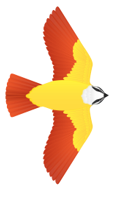
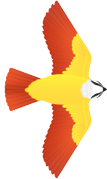
mountain level

diff --git a/Level2.java b/Level2.java
@@ -47,9 +47,9 @@ public class Level2 {
 		background2.add(new Log("file:src/p4_group_8_repo/cloudmove.png", 300, 0, 255, -2));
 		background2.add(new Log("file:src/p4_group_8_repo/cloudmove.png", 300, 400, 255, -2));
 		//background.add(new Log("file:src/p4_group_8_repo/logs.png", 300, 800, 276, -2));
-		background2.add(new Log("file:src/p4_group_8_repo/plane-right.png", 110, 50, 325, 0.75));
-		background2.add(new Log("file:src/p4_group_8_repo/plane-right.png", 110, 270, 325, 0.75));
-		background2.add(new Log("file:src/p4_group_8_repo/plane-right.png", 110, 465, 325, 0.75));
+		background2.add(new Log("file:src/p4_group_8_repo/superman-right.png", 125, 50, 325, 0.75));
+		background2.add(new Log("file:src/p4_group_8_repo/superman-right.png", 125, 270, 325, 0.75));
+		background2.add(new Log("file:src/p4_group_8_repo/superman-right.png", 125, 465, 325, 0.75));
 		//background.add(new Log("file:src/p4_group_8_repo/log3.png", 150, 0, 166, 0.75));
 		/*
 		background2.add(new Log("file:src/p4_group_8_repo/Birds2-right.PNG", 150, 50, 329, 1.40));
@@ -146,13 +146,13 @@ public class Level2 {
 	        	//Create and write "Score History" to text file
             	try {
             	    if (animal.getStop()) {
-            		File myObj = new File("D:\\Eclipse\\TryFrog1\\src\\p4_group_8_repo\\highscore.txt");
+            		File myObj = new File("MountainHighscore.txt");
             	      if (myObj.createNewFile()) {
             	        System.out.println("File created: " + myObj.getName());
             	      } else {
             	        System.out.println("File already exists.");
             	     }
-            	    FileWriter myWriter = new FileWriter("D:\\Eclipse\\TryFrog1\\src\\p4_group_8_repo\\highscore.txt", true);
+            	    FileWriter myWriter = new FileWriter("MountainHighscore.txt", true);
             	    myWriter.write("Score History: ");
           	        /*myWriter.write("\n");
             	    myWriter.write(""+ animal.getPoints());
@@ -166,7 +166,7 @@ public class Level2 {
             	//Write high score to text file
             	try {
             		if (animal.getStop()) {
-            		FileWriter myWriter1 = new FileWriter("D:\\Eclipse\\TryFrog1\\src\\p4_group_8_repo\\highscore.txt", true);
+            		FileWriter myWriter1 = new FileWriter("MountainHighscore.txt", true);
             		myWriter1.write("\n");
             	    myWriter1.write(""+ animal.getPoints());
           	        myWriter1.close();
@@ -198,7 +198,7 @@ public class Level2 {
 	            {
 	                //Creating BufferedReader object to read the input file
 	                 
-	                reader = new BufferedReader(new FileReader("D:\\Eclipse\\TryFrog1\\src\\p4_group_8_repo\\highscore.txt"));
+	                reader = new BufferedReader(new FileReader("MountainHighscore.txt"));
 	                 
 	                //Reading all the lines of input file one by one and adding them into ArrayList
 	                 
@@ -215,7 +215,7 @@ public class Level2 {
 	                 
 	                //Creating BufferedWriter object to write into output file
 	                 
-	                writer = new BufferedWriter(new FileWriter("D:\\Eclipse\\TryFrog1\\src\\p4_group_8_repo\\highscoresorted.txt"));
+	                writer = new BufferedWriter(new FileWriter("MountainHighscoresorted.txt"));
 	                 
 	                //Writing sorted lines into output file
 	                writer.write("Highgest Score First");
@@ -260,7 +260,7 @@ public class Level2 {
 	        		stop();
 	        		background.stop();
 	        		*/
-	        		reader1 = new BufferedReader(new FileReader("D:\\Eclipse\\TryFrog1\\src\\p4_group_8_repo\\highscoresorted.txt"));
+	        		reader1 = new BufferedReader(new FileReader("MountainHighscoresorted.txt"));
 	                
 	                //Reading all the lines of input file one by one and adding them into ArrayList
 	                 
@@ -272,7 +272,7 @@ public class Level2 {
 	                }
 	        	Alert alert = new Alert(AlertType.INFORMATION);
 	    		alert.setTitle("You Have Won The Game!");
-	    		alert.setHeaderText("Your High Score: "+animal.getPoints()+"!");
+	    		alert.setHeaderText("Your Score: "+animal.getPoints()+"!");
 	    		alert.setContentText("Highest Possible Score: 800\n"+"Previous High Scores:\n" + lines);
 	    		alert.show();
 	        	}

diff --git a/Level1.java b/Level1.java
@@ -124,28 +124,18 @@ public class Level1{
 	        		stop();
 	        		background.stop();
 	        		}
-	        		/*
-	        		Alert alert = new Alert(AlertType.INFORMATION);
-	        		alert.setTitle("You Have Won The Game!");
-	        		alert.setHeaderText("Your High Score: "+animal.getPoints()+"!");
-	        		alert.setContentText("Highest Possible Score: 800\n");
-	        		alert.show();
-	        	}
-	        	*/
+	       
 	        	//Create and write "Score History" to text file
             	try {
             	    if (animal.getStop()) {
-            		File myObj = new File("D:\\Eclipse\\TryFrog1\\src\\p4_group_8_repo\\highscore.txt");
+            		File myObj = new File("RiverHighscore.txt");
             	      if (myObj.createNewFile()) {
             	        System.out.println("File created: " + myObj.getName());
             	      } else {
             	        System.out.println("File already exists.");
             	     }
-            	    FileWriter myWriter = new FileWriter("D:\\Eclipse\\TryFrog1\\src\\p4_group_8_repo\\highscore.txt", true);
+            	    FileWriter myWriter = new FileWriter("RiverHighscore.txt", true);
             	    myWriter.write("Score History: ");
-          	        /*myWriter.write("\n");
-            	    myWriter.write(""+ animal.getPoints());
-          	        myWriter.close();*/
             	    }
             	   } catch (IOException e) {
             	      System.out.println("An error occurred.");
@@ -155,7 +145,7 @@ public class Level1{
             	//Write high score to text file
             	try {
             		if (animal.getStop()) {
-            		FileWriter myWriter1 = new FileWriter("D:\\Eclipse\\TryFrog1\\src\\p4_group_8_repo\\highscore.txt", true);
+            		FileWriter myWriter1 = new FileWriter("RiverHighscore.txt", true);
             		myWriter1.write("\n");
             	    myWriter1.write(""+ animal.getPoints());
           	        myWriter1.close();
@@ -187,7 +177,7 @@ public class Level1{
 	            {
 	                //Creating BufferedReader object to read the input file
 	                 
-	                reader = new BufferedReader(new FileReader("D:\\Eclipse\\TryFrog1\\src\\p4_group_8_repo\\highscore.txt"));
+	                reader = new BufferedReader(new FileReader("RiverHighscore.txt"));
 	                 
 	                //Reading all the lines of input file one by one and adding them into ArrayList
 	                 
@@ -204,7 +194,7 @@ public class Level1{
 	                 
 	                //Creating BufferedWriter object to write into output file
 	                 
-	                writer = new BufferedWriter(new FileWriter("D:\\Eclipse\\TryFrog1\\src\\p4_group_8_repo\\highscoresorted.txt"));
+	                writer = new BufferedWriter(new FileWriter("RiverHighscoresorted.txt"));
 	                 
 	                //Writing sorted lines into output file
 	                writer.write("Highgest Score First");
@@ -249,7 +239,7 @@ public class Level1{
 	        		stop();
 	        		background.stop();
 	        		*/
-	        		reader1 = new BufferedReader(new FileReader("D:\\Eclipse\\TryFrog1\\src\\p4_group_8_repo\\highscoresorted.txt"));
+	        		reader1 = new BufferedReader(new FileReader("RiverHighscoresorted.txt"));
 	                
 	                //Reading all the lines of input file one by one and adding them into ArrayList
 	                 
@@ -261,7 +251,7 @@ public class Level1{
 	                }
 	        	Alert alert = new Alert(AlertType.INFORMATION);
 	    		alert.setTitle("You Have Won The Game!");
-	    		alert.setHeaderText("Your High Score: "+animal.getPoints()+"!");
+	    		alert.setHeaderText("Your Score: "+animal.getPoints()+"!");
 	    		alert.setContentText("Highest Possible Score: 800\n"+"Previous High Scores:\n" + lines);
 	    		alert.show();
 	        	}

diff --git a/Main.java b/Main.java
@@ -1,50 +1,8 @@
 package p4_group_8_repo;
 
-import java.io.BufferedReader;
-import java.io.BufferedWriter;
-import java.io.File;
-import java.io.FileInputStream;
-import java.io.FileNotFoundException;
-import java.io.FileReader;
-import java.io.FileWriter;
-import java.io.IOException;
-import java.io.InputStream;
-import java.util.ArrayList;
-import java.util.Collections;
-import java.util.List;
-import java.util.Scanner;
-
 import javafx.animation.AnimationTimer;
 import javafx.application.Application;
-import javafx.application.Platform;
-import javafx.geometry.Pos;
-import javafx.scene.Group;
-import javafx.scene.Scene;
-import javafx.scene.control.Alert;
-import javafx.scene.control.Alert.AlertType;
-import javafx.scene.media.Media;
-import javafx.scene.media.MediaPlayer;
-import javafx.scene.text.Font;
-import javafx.scene.text.Text;
-import javafx.stage.Stage;
-import javafx.util.Duration;
-
-//MainMenu
-import javafx.application.Application;
-
-import javafx.scene.Scene;
-import javafx.scene.control.Button;
 import javafx.scene.image.Image;
-import javafx.scene.image.ImageView;
-import javafx.scene.layout.Background;
-import javafx.scene.layout.BackgroundFill;
-import javafx.scene.layout.BackgroundPosition;
-import javafx.scene.layout.BackgroundRepeat;
-import javafx.scene.layout.BackgroundSize;
-import javafx.scene.layout.HBox;
-import javafx.scene.layout.Pane;
-import javafx.scene.layout.VBox;
-import javafx.scene.paint.Color;
 import javafx.stage.Stage;
 
 public class Main extends Application {
@@ -53,6 +11,8 @@ public class Main extends Application {
 	Animal animal;
 	
 	public void start(Stage primaryStage) throws Exception {
+		
+		primaryStage.getIcons().add(new Image("file:src/p4_group_8_repo/frogicon.png"));
 		
 		MainMenu menu = new MainMenu();
 		menu.mm(primaryStage);

diff --git a/MainMenu.java b/MainMenu.java
@@ -54,25 +54,17 @@ public void mm(Stage primaryStage) throws Exception {
 	  		btnstart.setTranslateX(200);
 	  	    btnstart.setTranslateY(-77);
 	  	    btnstart.setOnMouseClicked(event -> { 
-	  			/*
-	  	    	primaryStage.setScene(scene);
-	  			background.start();
-	  			start();
-	  			*/
+	  	
 	  	    	start1.lvl1(primaryStage);
 	  	    });
 	  	    
 	  	//Sky level button
 	  	    Level2 start2 = new Level2();
-	  		Button btnstart2 = new Button("Sky Level");
-	  		btnstart2.setTranslateX(340);
+	  		Button btnstart2 = new Button("Mountain Level");
+	  		btnstart2.setTranslateX(330);
 	  	    btnstart2.setTranslateY(-123);
 	  	    btnstart2.setOnMouseClicked(event -> { 
-	  			/*
-	  	    	primaryStage.setScene(scene);
-	  			background.start();
-	  			start();
-	  			*/
+	  		
 	  	    	start2.lvl2(primaryStage);
 	  	    });
 	  	    
